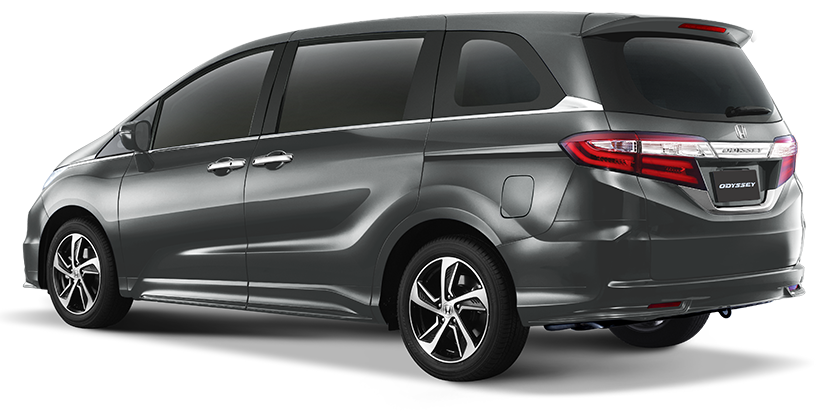
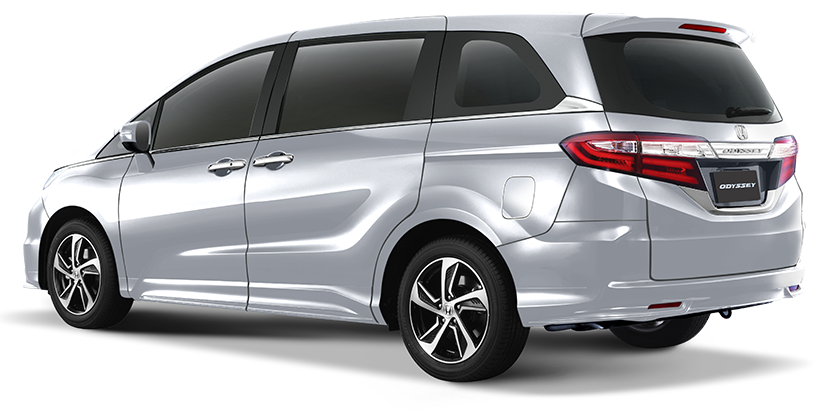
fix issues reported by client
- interchange color in odyssey
- change color name in odyssey
- change crz color name

diff --git a/index.html b/index.html
@@ -1048,8 +1048,8 @@
                     <div class="crz-customizer-color-5 customizer-item-3 pull-left customizer-selector type-color"><img src="images/assets/crz/buttons/color/5.png" alt="Premium White Pearl" width="110">
                         <p>Premium White Pearl</p>
                     </div>
-                    <div class="crz-customizer-color-6 customizer-item-3 pull-left customizer-selector type-color"><img src="images/assets/crz/buttons/color/6.png" alt="Turquioise Blue" width="110">
-                        <p>Turquioise Blue</p>
+                    <div class="crz-customizer-color-6 customizer-item-3 pull-left customizer-selector type-color"><img src="images/assets/crz/buttons/color/6.png" alt="Turquoise Blue" width="110">
+                        <p>Turquoise Blue</p>
                     </div>
                 </div>
                 <div class="customizer-container crz-div-car-tint pull-left">
@@ -1644,8 +1644,8 @@
                         <p>Modern Steel</p>
                     </div>
                     <div class="odyssey-customizer-color-7 customizer-item-3-1 pull-left customizer-selector type-color odyssey-color-text">
-                        <img src="images/assets/odyssey/buttons/color/7.png" alt="Premium White Pearl" width="110">
-                        <p>Premium White Pearl</p>
+                        <img src="images/assets/odyssey/buttons/color/7.png" alt="White Orchid Pearl" width="110">
+                        <p>White Orchid Pearl</p>
                     </div>
                 </div>
                 <div class="customizer-container odyssey-div-car-tint pull-left">
